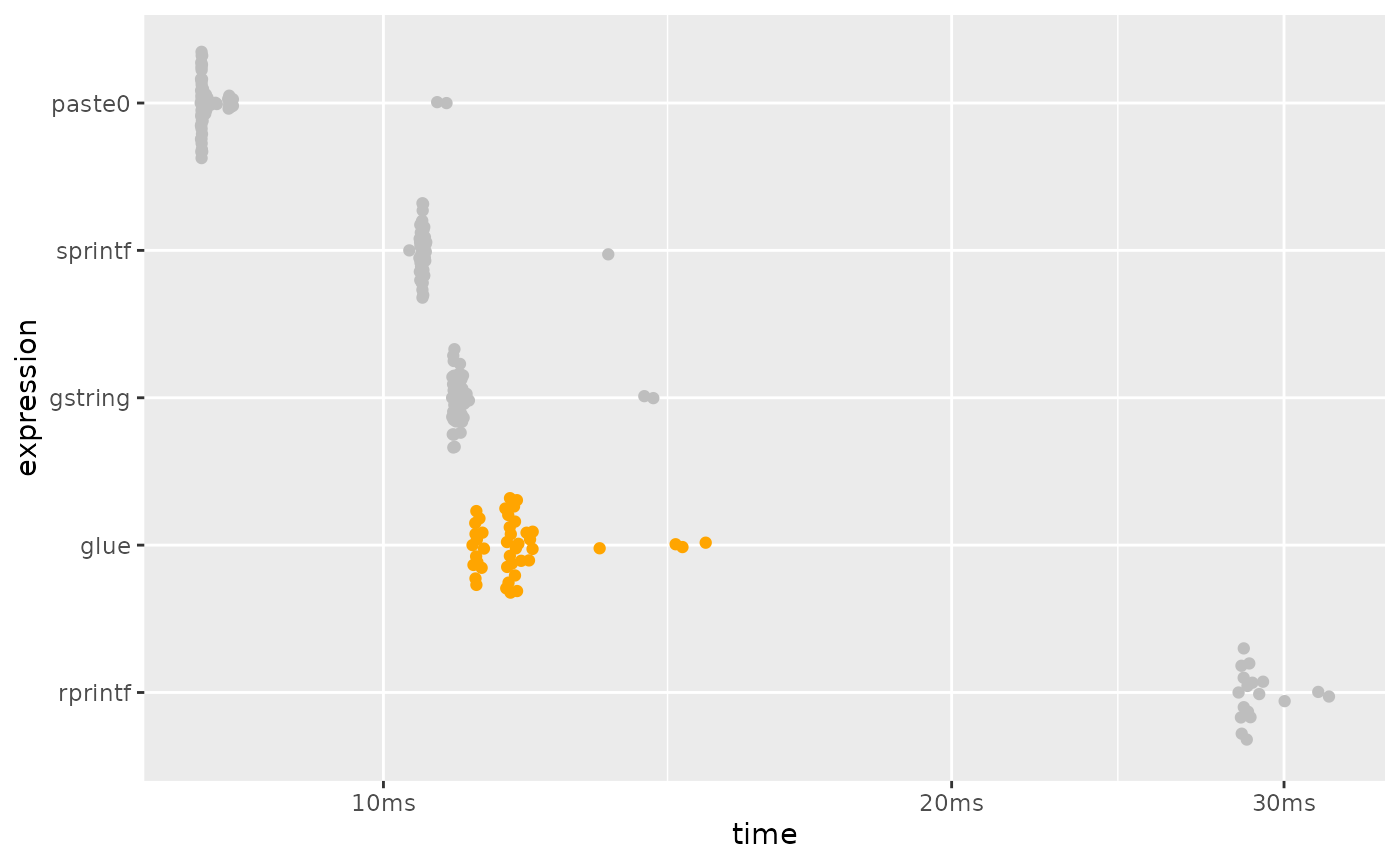
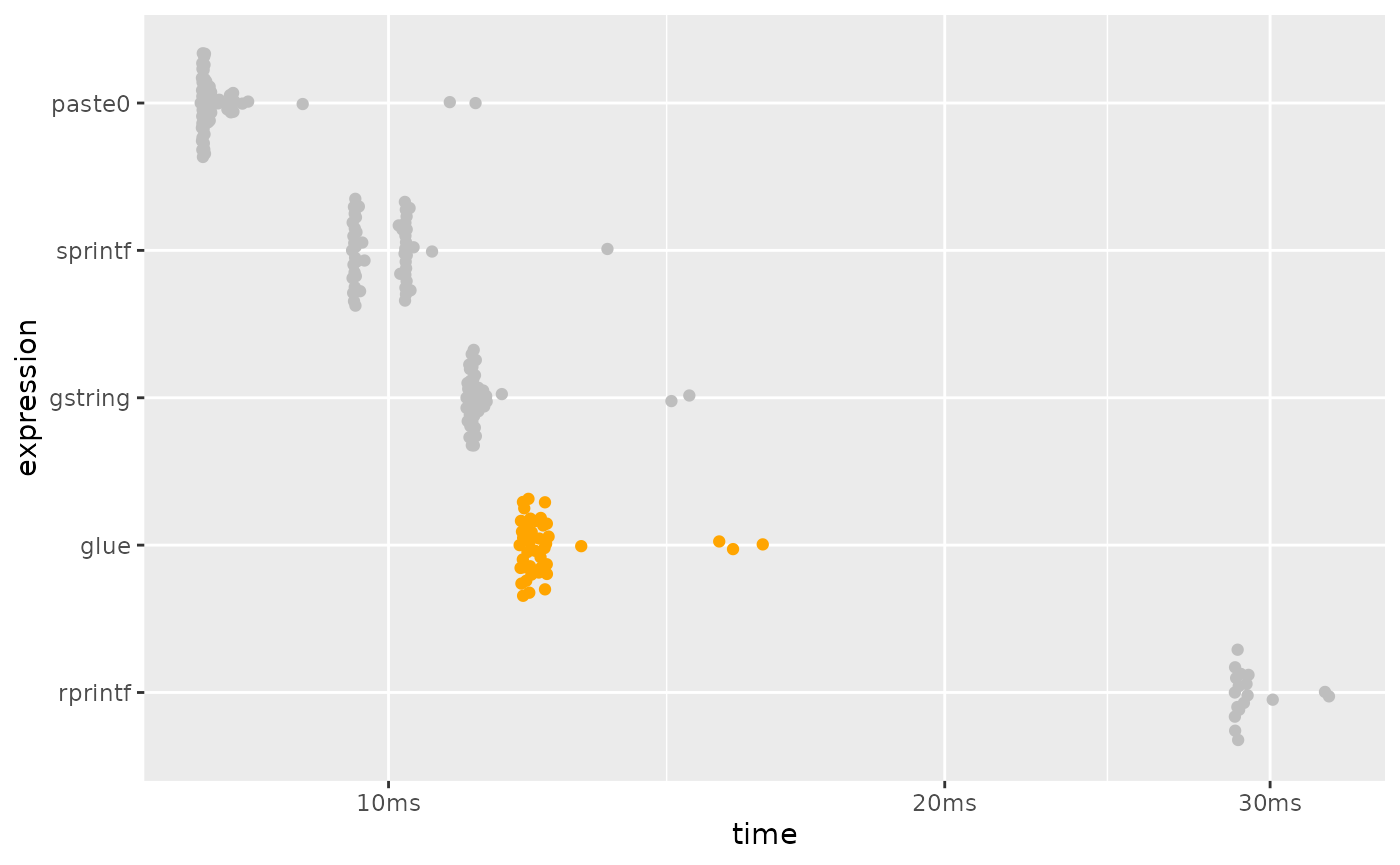
Deploying to gh-pages from @ tidyverse/glue@ed413d25031b926832003ab80e042d6f32922e26 🚀

diff --git a/dev/articles/speed.html b/dev/articles/speed.html
@@ -153,11 +153,11 @@ this benchmark, but is now formally marked as “superseded”, in favor of
 <span><span class="co">#&gt; <span style="color: #949494;"># A tibble: 5 × 6</span></span></span>
 <span><span class="co">#&gt;   expression      min   median `itr/sec` mem_alloc `gc/sec`</span></span>
 <span><span class="co">#&gt;   <span style="color: #949494; font-style: italic;">&lt;bch:expr&gt;</span> <span style="color: #949494; font-style: italic;">&lt;bch:tm&gt;</span> <span style="color: #949494; font-style: italic;">&lt;bch:tm&gt;</span>     <span style="color: #949494; font-style: italic;">&lt;dbl&gt;</span> <span style="color: #949494; font-style: italic;">&lt;bch:byt&gt;</span>    <span style="color: #949494; font-style: italic;">&lt;dbl&gt;</span></span></span>
-<span><span class="co">#&gt; <span style="color: #BCBCBC;">1</span> sprintf     802.1ns  892.1ns  1<span style="text-decoration: underline;">059</span>375.        0B     0   </span></span>
-<span><span class="co">#&gt; <span style="color: #BCBCBC;">2</span> paste0       1.49µs    1.6µs   <span style="text-decoration: underline;">594</span>150.        0B     0   </span></span>
-<span><span class="co">#&gt; <span style="color: #BCBCBC;">3</span> glue        96.33µs  102.1µs     <span style="text-decoration: underline;">9</span>540.  141.72KB    22.0 </span></span>
-<span><span class="co">#&gt; <span style="color: #BCBCBC;">4</span> gstring    223.92µs  235.2µs     <span style="text-decoration: underline;">4</span>154.    2.44MB    12.4 </span></span>
-<span><span class="co">#&gt; <span style="color: #BCBCBC;">5</span> rprintf    279.01µs    288µs     <span style="text-decoration: underline;">3</span>413.  504.06KB     8.19</span></span>
+<span><span class="co">#&gt; <span style="color: #BCBCBC;">1</span> sprintf    761.01ns 882.08ns  1<span style="text-decoration: underline;">075</span>851.        0B     0   </span></span>
+<span><span class="co">#&gt; <span style="color: #BCBCBC;">2</span> paste0       1.48µs   1.61µs   <span style="text-decoration: underline;">571</span>188.        0B    57.1 </span></span>
+<span><span class="co">#&gt; <span style="color: #BCBCBC;">3</span> glue        98.17µs 104.57µs     <span style="text-decoration: underline;">9</span>262.  141.72KB    20.3 </span></span>
+<span><span class="co">#&gt; <span style="color: #BCBCBC;">4</span> gstring    227.73µs 240.59µs     <span style="text-decoration: underline;">4</span>035.    2.44MB    12.5 </span></span>
+<span><span class="co">#&gt; <span style="color: #BCBCBC;">5</span> rprintf    283.16µs 295.44µs     <span style="text-decoration: underline;">3</span>314.  504.06KB     6.13</span></span>
 <span></span>
 <span><span class="co"># plotting function defined in a hidden chunk</span></span>
 <span><span class="fu">plot_comparison</span><span class="op">(</span><span class="va">simple</span><span class="op">)</span></span></code></pre></div>
@@ -200,11 +200,11 @@ performance is much closer to that of <code><a href="https://rdrr.io/r/base/past
 <span><span class="co">#&gt; <span style="color: #949494;"># A tibble: 5 × 6</span></span></span>
 <span><span class="co">#&gt;   expression      min   median `itr/sec` mem_alloc `gc/sec`</span></span>
 <span><span class="co">#&gt;   <span style="color: #949494; font-style: italic;">&lt;bch:expr&gt;</span> <span style="color: #949494; font-style: italic;">&lt;bch:tm&gt;</span> <span style="color: #949494; font-style: italic;">&lt;bch:tm&gt;</span>     <span style="color: #949494; font-style: italic;">&lt;dbl&gt;</span> <span style="color: #949494; font-style: italic;">&lt;bch:byt&gt;</span>    <span style="color: #949494; font-style: italic;">&lt;dbl&gt;</span></span></span>
-<span><span class="co">#&gt; <span style="color: #BCBCBC;">1</span> paste0          8ms   8.02ms     124.    781.3KB     4.13</span></span>
-<span><span class="co">#&gt; <span style="color: #BCBCBC;">2</span> sprintf      10.3ms  10.49ms      95.4   781.3KB     2.03</span></span>
-<span><span class="co">#&gt; <span style="color: #BCBCBC;">3</span> gstring      10.9ms  10.94ms      91.3    1.53MB     4.15</span></span>
-<span><span class="co">#&gt; <span style="color: #BCBCBC;">4</span> glue         11.1ms  11.66ms      86.3    2.29MB     6.47</span></span>
-<span><span class="co">#&gt; <span style="color: #BCBCBC;">5</span> rprintf      28.4ms  28.68ms      34.8    3.05MB     4.34</span></span>
+<span><span class="co">#&gt; <span style="color: #BCBCBC;">1</span> paste0       7.91ms   7.95ms     124.    781.3KB     4.15</span></span>
+<span><span class="co">#&gt; <span style="color: #BCBCBC;">2</span> sprintf      9.56ms   9.69ms     101.    781.3KB     2.02</span></span>
+<span><span class="co">#&gt; <span style="color: #BCBCBC;">3</span> gstring     11.02ms  11.11ms      89.8    1.53MB     4.18</span></span>
+<span><span class="co">#&gt; <span style="color: #BCBCBC;">4</span> glue        11.78ms  11.94ms      83.4    2.29MB     6.58</span></span>
+<span><span class="co">#&gt; <span style="color: #BCBCBC;">5</span> rprintf     28.71ms  28.84ms      34.5    3.05MB     4.32</span></span>
 <span></span>
 <span><span class="co"># plotting function defined in a hidden chunk</span></span>
 <span><span class="fu">plot_comparison</span><span class="op">(</span><span class="va">vectorized</span><span class="op">)</span></span></code></pre></div>
